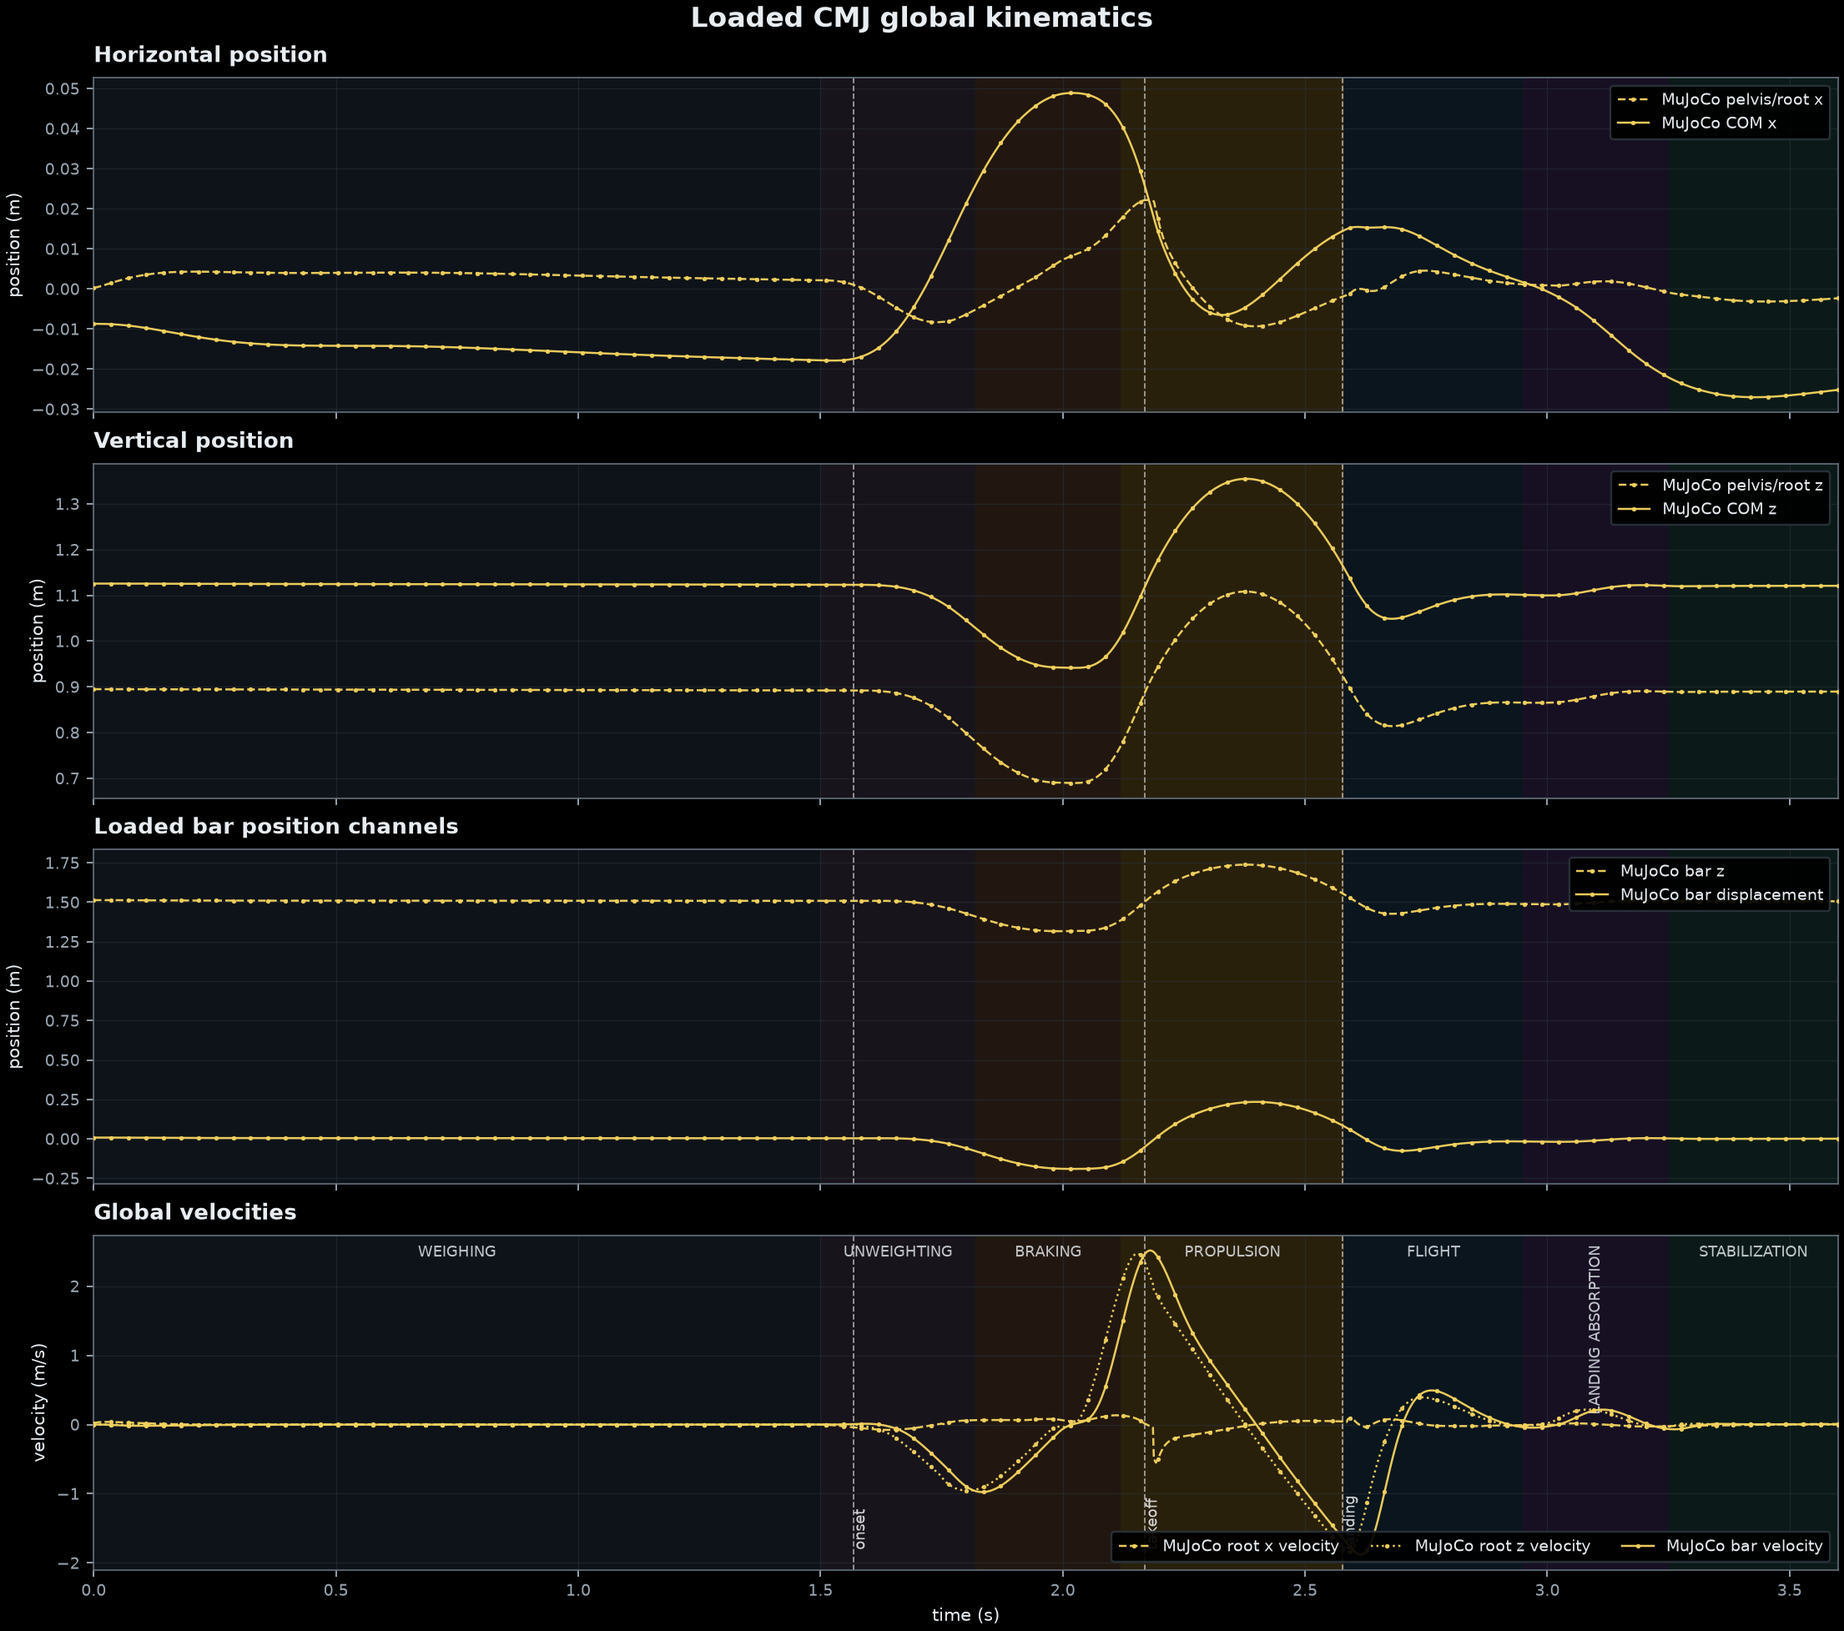
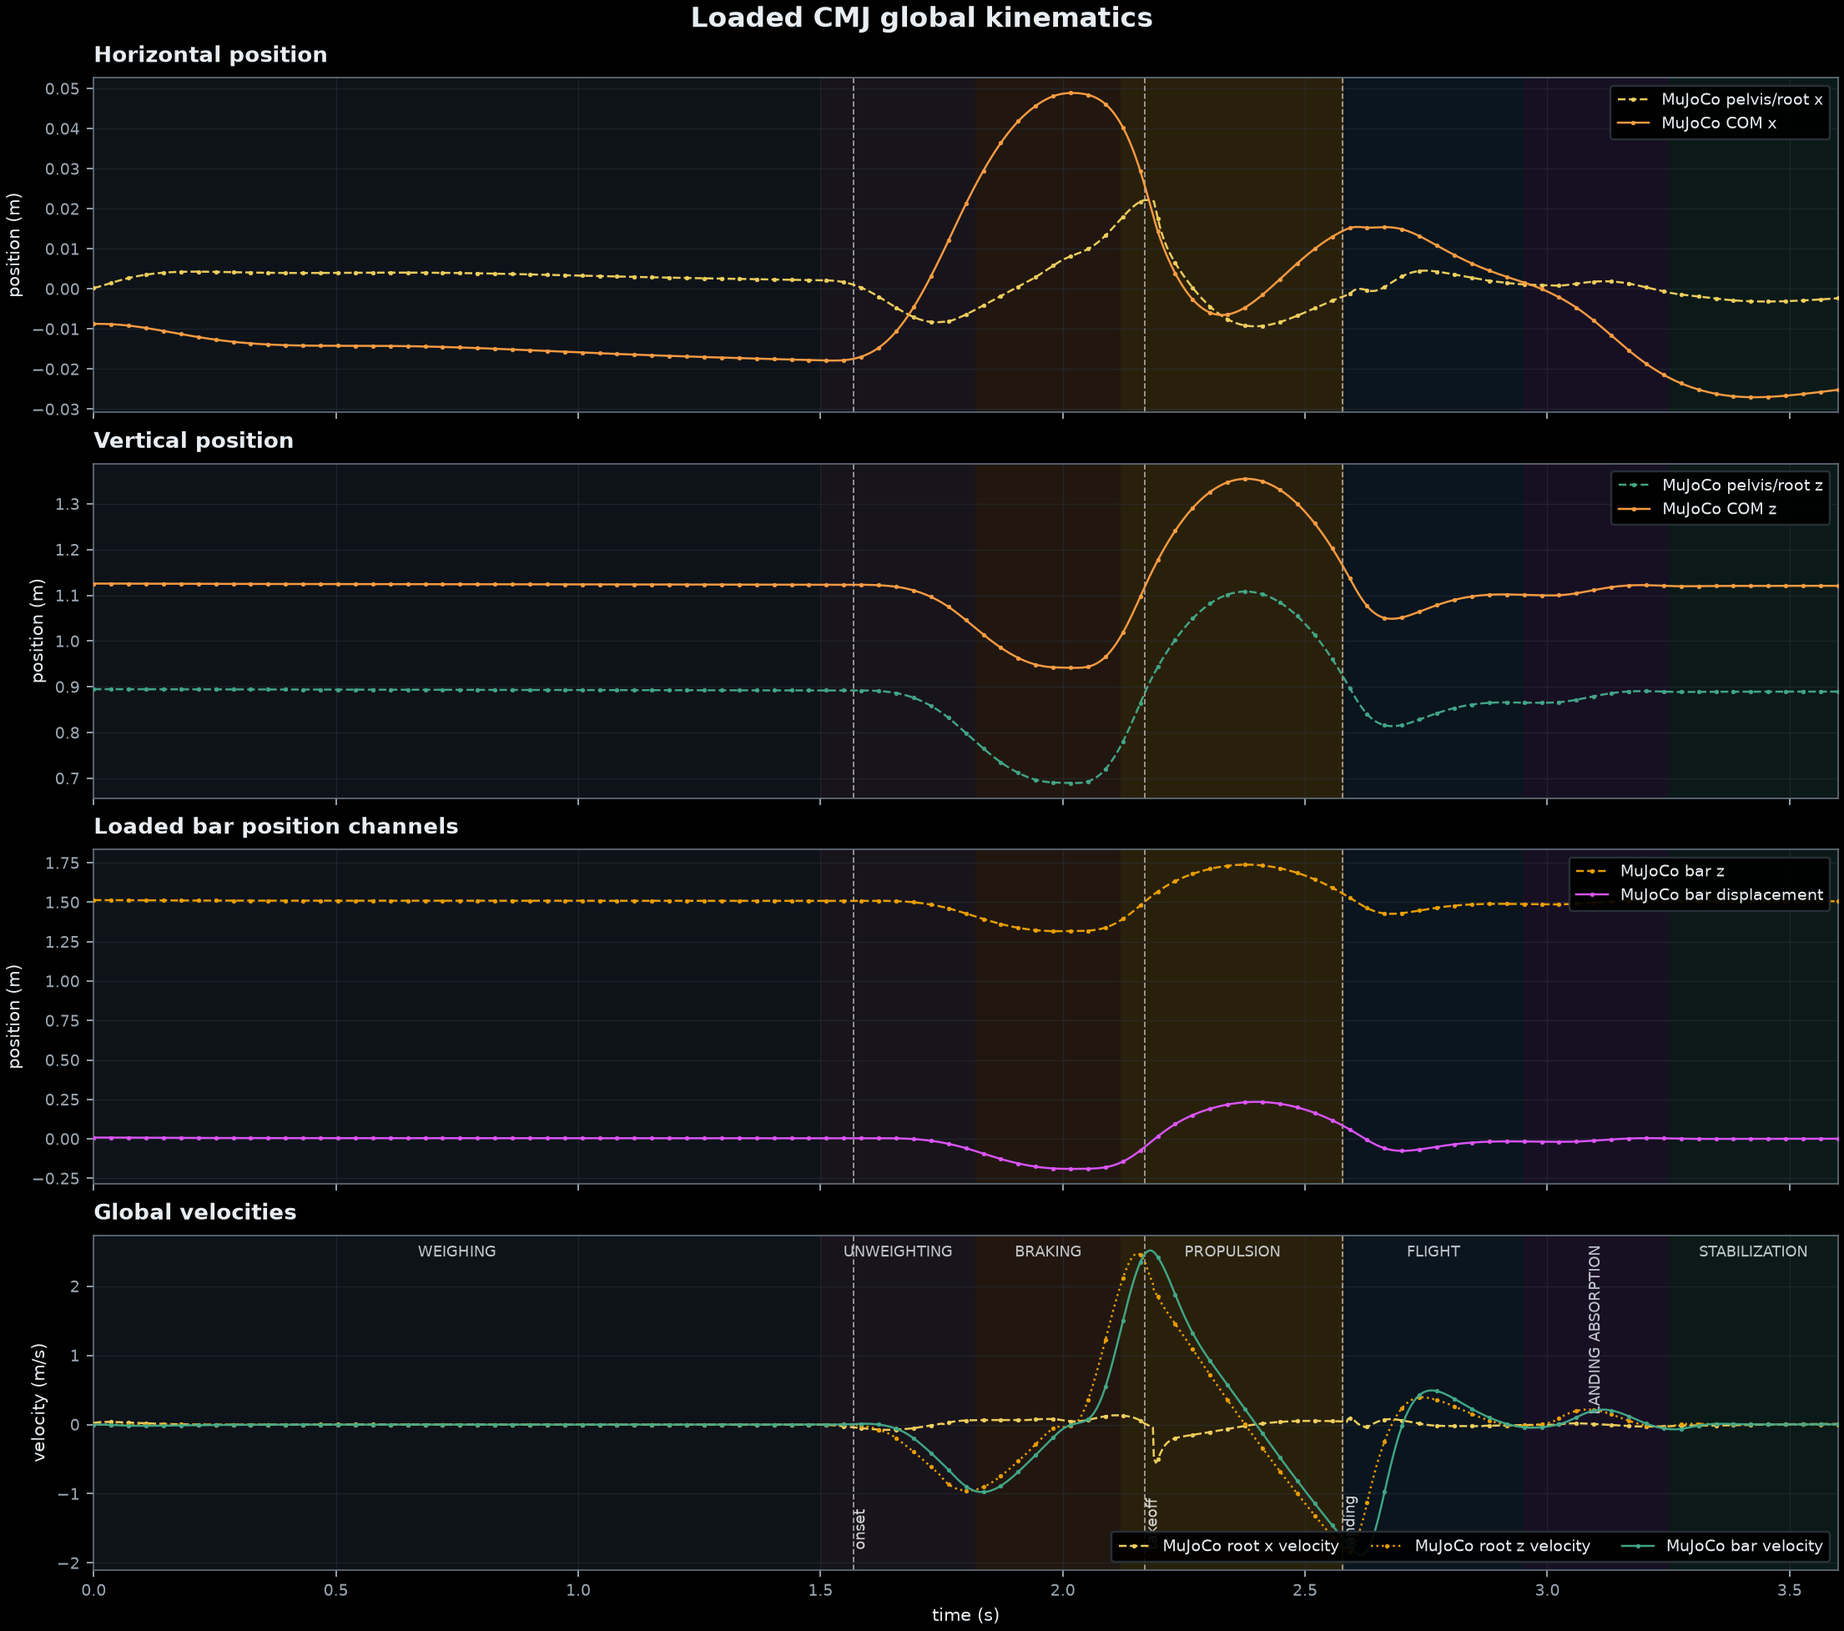
Use unique channel colors across scientific plots

diff --git a/examples/plot_observables.py b/examples/plot_observables.py
@@ -40,9 +40,15 @@ SPINE = "#65717d"
 OBSERVED = "#8bdcff"
 MUJOCO = "#f4d35e"
 MUJOCO_DIM = "#d9bb4b"
+GRF_RIGHT_AMBER = "#f0a202"
+GRF_TOTAL_RED = "#ef476f"
+NET_GRF_PURPLE = "#c77dff"
+LPT_VELOCITY_GREEN = "#43aa8b"
+LPT_VELOCITY_OBSERVED = "#9fe5d0"
 COM_ORANGE = "#ff9f43"
-LPT_DISPLACEMENT_RED = "#ff4d6d"
-LPT_DISPLACEMENT_OBSERVED = "#ff9eae"
+LPT_DISPLACEMENT_MAGENTA = "#e056fd"
+LPT_DISPLACEMENT_OBSERVED = "#f3b5ff"
+LPT_TETHER_PURPLE = "#b388ff"
 EVENT = "#f2f2f2"
 PHASE_COLORS = (
     "#355070",  # weighing
@@ -273,32 +279,32 @@ def _combined_measurements(result: dict[str, Any], observed: dict[str, Any]) -> 
     )
 
     _prepare_axis(axes[0], result)
-    _plot_mujoco(axes[0], time_s, traces["fz_left_N"], "MuJoCo left Fz", linestyle="--", alpha=0.72)
-    _plot_mujoco(axes[0], time_s, traces["fz_right_N"], "MuJoCo right Fz", linestyle=":", alpha=0.72)
-    _plot_mujoco(axes[0], time_s, traces["fz_total_N"], "MuJoCo total Fz")
-    _plot_observed(axes[0], observed_time, observed["fz_total_N"], "observed total Fz")
+    _plot_mujoco(axes[0], time_s, traces["fz_left_N"], "MuJoCo left Fz", linestyle="--", alpha=0.72, color=MUJOCO)
+    _plot_mujoco(axes[0], time_s, traces["fz_right_N"], "MuJoCo right Fz", linestyle=":", alpha=0.72, color=GRF_RIGHT_AMBER)
+    _plot_mujoco(axes[0], time_s, traces["fz_total_N"], "MuJoCo total Fz", color=GRF_TOTAL_RED)
+    _plot_observed(axes[0], observed_time, observed["fz_total_N"], "observed total Fz", color=OBSERVED)
     _style_axis(axes[0], "Bilateral force-platform signal", "force (N)")
     _legend(axes[0], ncol=2)
 
     _prepare_axis(axes[1], result)
-    _plot_mujoco(axes[1], time_s, traces["fnet_N"], "MuJoCo net GRF")
+    _plot_mujoco(axes[1], time_s, traces["fnet_N"], "MuJoCo net GRF", color=NET_GRF_PURPLE)
     _style_axis(axes[1], "Net ground-reaction force", "net force (N)")
     _legend(axes[1])
 
     _prepare_axis(axes[2], result)
-    _plot_mujoco(axes[2], time_s, traces["bar_displacement_m"], "MuJoCo bar displacement")
-    _plot_observed(axes[2], observed_time, observed["bar_displacement_m"], "observed bar displacement")
+    _plot_mujoco(axes[2], time_s, traces["bar_displacement_m"], "MuJoCo bar displacement", color=LPT_DISPLACEMENT_MAGENTA)
+    _plot_observed(axes[2], observed_time, observed["bar_displacement_m"], "observed bar displacement", color=LPT_DISPLACEMENT_OBSERVED)
     _style_axis(axes[2], "Bar/LPT displacement — bar displacement, not COM displacement", "m")
     _legend(axes[2])
 
     _prepare_axis(axes[3], result)
-    _plot_mujoco(axes[3], time_s, traces["bar_velocity_m_s"], "MuJoCo bar velocity")
-    _plot_observed(axes[3], observed_time, observed["bar_velocity_m_s"], "observed bar velocity")
+    _plot_mujoco(axes[3], time_s, traces["bar_velocity_m_s"], "MuJoCo bar velocity", color=LPT_VELOCITY_GREEN)
+    _plot_observed(axes[3], observed_time, observed["bar_velocity_m_s"], "observed bar velocity", color=LPT_VELOCITY_OBSERVED)
     _style_axis(axes[3], "Bar/LPT velocity", "velocity (m/s)")
     _legend(axes[3], loc="lower right")
 
     _prepare_axis(axes[4], result, labels=True)
-    _plot_mujoco(axes[4], time_s, traces["lpt_tether_force_N"], "MuJoCo LPT tether force")
+    _plot_mujoco(axes[4], time_s, traces["lpt_tether_force_N"], "MuJoCo LPT tether force", color=LPT_TETHER_PURPLE)
     _style_axis(axes[4], "LPT tether diagnostic", "force (N)")
     axes[4].set_xlabel("time (s)", color=TEXT)
     _legend(axes[4], loc="lower right")
@@ -331,21 +337,21 @@ def _combined_grf_com_lpt(result: dict[str, Any], observed: dict[str, Any]) -> N
     displacement_axis.spines["right"].set_position(("outward", 124))
 
     _prepare_axis(host, result, labels=True)
-    _plot_mujoco(host, time_s, traces["fz_left_N"], "MuJoCo left GRF", linestyle="--", alpha=0.72)
-    _plot_mujoco(host, time_s, traces["fz_right_N"], "MuJoCo right GRF", linestyle=":", alpha=0.72)
-    _plot_mujoco(host, time_s, traces["fz_total_N"], "MuJoCo total GRF")
-    _plot_observed(host, observed_time, observed["fz_total_N"], "observed total GRF")
+    _plot_mujoco(host, time_s, traces["fz_left_N"], "MuJoCo left GRF", linestyle="--", alpha=0.72, color=MUJOCO)
+    _plot_mujoco(host, time_s, traces["fz_right_N"], "MuJoCo right GRF", linestyle=":", alpha=0.72, color=GRF_RIGHT_AMBER)
+    _plot_mujoco(host, time_s, traces["fz_total_N"], "MuJoCo total GRF", color=GRF_TOTAL_RED)
+    _plot_observed(host, observed_time, observed["fz_total_N"], "observed total GRF", color=OBSERVED)
     _style_axis(host, "Force-platform GRFs + COM + LPT (native scales)", "GRF (N)")
 
     _plot_mujoco(com_axis, time_s, traces["com_z_m"], "MuJoCo COM z", color=COM_ORANGE)
-    _plot_mujoco(velocity_axis, time_s, traces["bar_velocity_m_s"], "MuJoCo LPT/bar velocity")
-    _plot_observed(velocity_axis, observed_time, observed["bar_velocity_m_s"], "observed LPT/bar velocity")
+    _plot_mujoco(velocity_axis, time_s, traces["bar_velocity_m_s"], "MuJoCo LPT/bar velocity", color=LPT_VELOCITY_GREEN)
+    _plot_observed(velocity_axis, observed_time, observed["bar_velocity_m_s"], "observed LPT/bar velocity", color=LPT_VELOCITY_OBSERVED)
     _plot_mujoco(
         displacement_axis,
         time_s,
         traces["bar_displacement_m"],
         "MuJoCo LPT/bar displacement",
-        color=LPT_DISPLACEMENT_RED,
+        color=LPT_DISPLACEMENT_MAGENTA,
     )
     _plot_observed(
         displacement_axis,
@@ -358,8 +364,8 @@ def _combined_grf_com_lpt(result: dict[str, Any], observed: dict[str, Any]) -> N
     for axis, label, color in (
         (host, "GRF (N)", TEXT),
         (com_axis, "COM z (m)", COM_ORANGE),
-        (velocity_axis, "LPT velocity (m/s)", OBSERVED),
-        (displacement_axis, "LPT displacement (m)", LPT_DISPLACEMENT_RED),
+        (velocity_axis, "LPT velocity (m/s)", LPT_VELOCITY_GREEN),
+        (displacement_axis, "LPT displacement (m)", LPT_DISPLACEMENT_MAGENTA),
     ):
         axis.set_ylabel(label, color=color)
         axis.tick_params(axis="y", colors=color, labelsize=8)
@@ -408,33 +414,39 @@ def _force_plate_metrics(result: dict[str, Any]) -> None:
     fig.suptitle("Loaded CMJ force-platform metrics", color=TEXT, fontsize=14, fontweight="bold")
 
     _prepare_axis(axes[0], result)
-    _plot_mujoco(axes[0], time_s, traces["fz_left_N"], "MuJoCo left plate", linestyle="--", alpha=0.72)
-    _plot_mujoco(axes[0], time_s, traces["fz_right_N"], "MuJoCo right plate", linestyle=":", alpha=0.72)
-    _plot_mujoco(axes[0], time_s, traces["fz_total_N"], "MuJoCo bilateral total")
-    _plot_mujoco(axes[0], time_s, traces["total_fz_N"], "MuJoCo raw contact total", linestyle="-.", alpha=0.68)
+    _plot_mujoco(axes[0], time_s, traces["fz_left_N"], "MuJoCo left plate", linestyle="--", alpha=0.72, color=MUJOCO)
+    _plot_mujoco(axes[0], time_s, traces["fz_right_N"], "MuJoCo right plate", linestyle=":", alpha=0.72, color=GRF_RIGHT_AMBER)
+    _plot_mujoco(axes[0], time_s, traces["fz_total_N"], "MuJoCo bilateral total", color=GRF_TOTAL_RED)
+    _plot_mujoco(axes[0], time_s, traces["total_fz_N"], "MuJoCo raw contact total", linestyle="-.", alpha=0.68, color=LPT_TETHER_PURPLE)
     _style_axis(axes[0], "Bilateral vertical force plates", "force (N)")
     _legend(axes[0], ncol=3)
 
     _prepare_axis(axes[1], result)
-    for key in (
+    regional_fz_colors = (
+        MUJOCO, GRF_RIGHT_AMBER, "#ff6b6b", "#4cc9f0", LPT_VELOCITY_GREEN, LPT_TETHER_PURPLE,
+    )
+    for key, color in zip((
         "left_heel_fz_N", "left_forefoot_fz_N", "left_toe_fz_N",
         "right_heel_fz_N", "right_forefoot_fz_N", "right_toe_fz_N",
-    ):
-        _plot_mujoco(axes[1], time_s, traces[key], f"MuJoCo {key.removesuffix('_fz_N')}", alpha=0.78)
+    ), regional_fz_colors):
+        _plot_mujoco(axes[1], time_s, traces[key], f"MuJoCo {key.removesuffix('_fz_N')}", alpha=0.78, color=color)
     _style_axis(axes[1], "Regional vertical contact forces", "force (N)")
     _legend(axes[1], ncol=3)
 
     _prepare_axis(axes[2], result)
-    for key in (
+    regional_fx_colors = (
+        COM_ORANGE, LPT_DISPLACEMENT_MAGENTA, "#00b4d8", "#90be6d", "#577590", "#f8961e",
+    )
+    for key, color in zip((
         "left_heel_fx_N", "left_forefoot_fx_N", "left_toe_fx_N",
         "right_heel_fx_N", "right_forefoot_fx_N", "right_toe_fx_N",
-    ):
-        _plot_mujoco(axes[2], time_s, traces[key], f"MuJoCo {key.removesuffix('_fx_N')}", alpha=0.78)
+    ), regional_fx_colors):
+        _plot_mujoco(axes[2], time_s, traces[key], f"MuJoCo {key.removesuffix('_fx_N')}", alpha=0.78, color=color)
     _style_axis(axes[2], "Regional horizontal contact forces", "force (N)")
     _legend(axes[2], ncol=3)
 
     _prepare_axis(axes[3], result, labels=True)
-    _plot_mujoco(axes[3], time_s, traces["total_fx_N"], "MuJoCo total Fx")
+    _plot_mujoco(axes[3], time_s, traces["total_fx_N"], "MuJoCo total Fx", color="#00b4d8")
     _style_axis(axes[3], "Total horizontal force-plate signal", "force (N)")
     axes[3].set_xlabel("time (s)", color=TEXT)
     _legend(axes[3], loc="lower right")
@@ -449,27 +461,27 @@ def _global_kinematics(result: dict[str, Any]) -> None:
     fig.suptitle("Loaded CMJ global kinematics", color=TEXT, fontsize=14, fontweight="bold")
 
     _prepare_axis(axes[0], result)
-    _plot_mujoco(axes[0], time_s, traces["root_x_m"], "MuJoCo pelvis/root x", linestyle="--")
-    _plot_mujoco(axes[0], time_s, traces["com_x_m"], "MuJoCo COM x")
+    _plot_mujoco(axes[0], time_s, traces["root_x_m"], "MuJoCo pelvis/root x", linestyle="--", color=MUJOCO)
+    _plot_mujoco(axes[0], time_s, traces["com_x_m"], "MuJoCo COM x", color=COM_ORANGE)
     _style_axis(axes[0], "Horizontal position", "position (m)")
     _legend(axes[0])
 
     _prepare_axis(axes[1], result)
-    _plot_mujoco(axes[1], time_s, traces["root_z_m"], "MuJoCo pelvis/root z", linestyle="--")
-    _plot_mujoco(axes[1], time_s, traces["com_z_m"], "MuJoCo COM z")
+    _plot_mujoco(axes[1], time_s, traces["root_z_m"], "MuJoCo pelvis/root z", linestyle="--", color=LPT_VELOCITY_GREEN)
+    _plot_mujoco(axes[1], time_s, traces["com_z_m"], "MuJoCo COM z", color=COM_ORANGE)
     _style_axis(axes[1], "Vertical position", "position (m)")
     _legend(axes[1])
 
     _prepare_axis(axes[2], result)
-    _plot_mujoco(axes[2], time_s, traces["bar_z_m"], "MuJoCo bar z", linestyle="--")
-    _plot_mujoco(axes[2], time_s, traces["bar_displacement_m"], "MuJoCo bar displacement")
+    _plot_mujoco(axes[2], time_s, traces["bar_z_m"], "MuJoCo bar z", linestyle="--", color=GRF_RIGHT_AMBER)
+    _plot_mujoco(axes[2], time_s, traces["bar_displacement_m"], "MuJoCo bar displacement", color=LPT_DISPLACEMENT_MAGENTA)
     _style_axis(axes[2], "Loaded bar position channels", "position (m)")
     _legend(axes[2])
 
     _prepare_axis(axes[3], result, labels=True)
-    _plot_mujoco(axes[3], time_s, traces["root_x_velocity_m_s"], "MuJoCo root x velocity", linestyle="--")
-    _plot_mujoco(axes[3], time_s, traces["root_z_velocity_m_s"], "MuJoCo root z velocity", linestyle=":")
-    _plot_mujoco(axes[3], time_s, traces["bar_velocity_m_s"], "MuJoCo bar velocity")
+    _plot_mujoco(axes[3], time_s, traces["root_x_velocity_m_s"], "MuJoCo root x velocity", linestyle="--", color=MUJOCO)
+    _plot_mujoco(axes[3], time_s, traces["root_z_velocity_m_s"], "MuJoCo root z velocity", linestyle=":", color=GRF_RIGHT_AMBER)
+    _plot_mujoco(axes[3], time_s, traces["bar_velocity_m_s"], "MuJoCo bar velocity", color=LPT_VELOCITY_GREEN)
     _style_axis(axes[3], "Global velocities", "velocity (m/s)")
     axes[3].set_xlabel("time (s)", color=TEXT)
     _legend(axes[3], ncol=3, loc="lower right")
@@ -484,16 +496,20 @@ def _foot_kinematics(result: dict[str, Any]) -> None:
     fig.suptitle("Loaded CMJ foot kinematics", color=TEXT, fontsize=14, fontweight="bold")
 
     _prepare_axis(axes[0], result)
-    for key in (
+    foot_height_colors = (
+        MUJOCO, GRF_RIGHT_AMBER, COM_ORANGE,
+        LPT_VELOCITY_GREEN, "#4cc9f0", LPT_TETHER_PURPLE,
+    )
+    for key, color in zip((
         "left_heel_z_m", "left_forefoot_z_m", "left_toe_z_m",
         "right_heel_z_m", "right_forefoot_z_m", "right_toe_z_m",
-    ):
-        _plot_mujoco(axes[0], time_s, traces[key], f"MuJoCo {key.removesuffix('_z_m')}", alpha=0.78)
+    ), foot_height_colors):
+        _plot_mujoco(axes[0], time_s, traces[key], f"MuJoCo {key.removesuffix('_z_m')}", alpha=0.78, color=color)
     _style_axis(axes[0], "Foot landmark heights", "height (m)")
     _legend(axes[0], ncol=3)
 
     _prepare_axis(axes[1], result, labels=True)
-    _plot_mujoco(axes[1], time_s, traces["foot_clearance_m"], "MuJoCo minimum foot clearance")
+    _plot_mujoco(axes[1], time_s, traces["foot_clearance_m"], "MuJoCo minimum foot clearance", color="#00b4d8")
     _style_axis(axes[1], "Minimum bilateral foot clearance", "clearance (m)")
     axes[1].set_xlabel("time (s)", color=TEXT)
     _legend(axes[1])
@@ -554,10 +570,20 @@ def _joint_kinematics(result: dict[str, Any]) -> None:
     fig, axes = plt.subplots(4, 1, figsize=(14, 14.5), sharex=True, constrained_layout=True)
     fig.suptitle("Loaded CMJ joint kinematics — q and qdot", color=TEXT, fontsize=14, fontweight="bold")
     groups = position_groups + velocity_groups
+    anatomical_colors = (
+        MUJOCO, GRF_RIGHT_AMBER, COM_ORANGE, LPT_DISPLACEMENT_MAGENTA,
+        LPT_VELOCITY_GREEN, "#4cc9f0", LPT_TETHER_PURPLE, "#f72585",
+        "#90be6d", "#577590", "#f9844a",
+    )
+    articulation_colors = (
+        MUJOCO, GRF_RIGHT_AMBER, COM_ORANGE, LPT_DISPLACEMENT_MAGENTA,
+        LPT_VELOCITY_GREEN, "#4cc9f0", LPT_TETHER_PURPLE,
+    )
     for index, (title, channels) in enumerate(groups):
         _prepare_axis(axes[index], result, labels=index == len(groups) - 1)
-        for channel, label in channels:
-            _plot_mujoco(axes[index], time_s, traces[channel], f"MuJoCo {label}", alpha=0.78)
+        colors = anatomical_colors if index in (0, 2) else articulation_colors
+        for (channel, label), color in zip(channels, colors):
+            _plot_mujoco(axes[index], time_s, traces[channel], f"MuJoCo {label}", alpha=0.78, color=color)
         ylabel = "q (rad; bar translations m)" if index < 2 else "qdot (rad/s; bar translations m/s)"
         _style_axis(axes[index], title, ylabel)
         _legend(
@@ -577,24 +603,28 @@ def _contact_mechanics(result: dict[str, Any]) -> None:
     fig.suptitle("Loaded CMJ contact and force-platform mechanics", color=TEXT, fontsize=14, fontweight="bold")
 
     _prepare_axis(axes[0], result)
-    for key in (
+    contact_colors = (
+        MUJOCO, GRF_RIGHT_AMBER, COM_ORANGE,
+        LPT_VELOCITY_GREEN, "#4cc9f0", LPT_TETHER_PURPLE,
+    )
+    for key, color in zip((
         "left_heel_contact", "left_forefoot_contact", "left_toe_contact",
         "right_heel_contact", "right_forefoot_contact", "right_toe_contact",
-    ):
-        _plot_mujoco(axes[0], time_s, [int(value) for value in traces[key]], f"MuJoCo {key.removesuffix('_contact')}", alpha=0.78)
+    ), contact_colors):
+        _plot_mujoco(axes[0], time_s, [int(value) for value in traces[key]], f"MuJoCo {key.removesuffix('_contact')}", alpha=0.78, color=color)
     axes[0].set_ylim(-0.08, 1.08)
     axes[0].set_yticks((0, 1), labels=("off", "on"))
     _style_axis(axes[0], "Per-region contact state", "contact")
     _legend(axes[0], ncol=3)
 
     _prepare_axis(axes[1], result)
-    _plot_mujoco(axes[1], time_s, traces["cop_x_m"], "MuJoCo center of pressure x")
+    _plot_mujoco(axes[1], time_s, traces["cop_x_m"], "MuJoCo center of pressure x", color="#00b4d8")
     _style_axis(axes[1], "Force-platform center of pressure", "CoP x (m)")
     _legend(axes[1])
 
     _prepare_axis(axes[2], result, labels=True)
-    _plot_mujoco(axes[2], time_s, traces["left_slip_vx_m_s"], "MuJoCo left slip speed", linestyle="--")
-    _plot_mujoco(axes[2], time_s, traces["right_slip_vx_m_s"], "MuJoCo right slip speed")
+    _plot_mujoco(axes[2], time_s, traces["left_slip_vx_m_s"], "MuJoCo left slip speed", linestyle="--", color=COM_ORANGE)
+    _plot_mujoco(axes[2], time_s, traces["right_slip_vx_m_s"], "MuJoCo right slip speed", color=LPT_TETHER_PURPLE)
     _style_axis(axes[2], "Contact slip diagnostics", "speed (m/s)")
     axes[2].set_xlabel("time (s)", color=TEXT)
     _legend(axes[2], loc="lower right")
